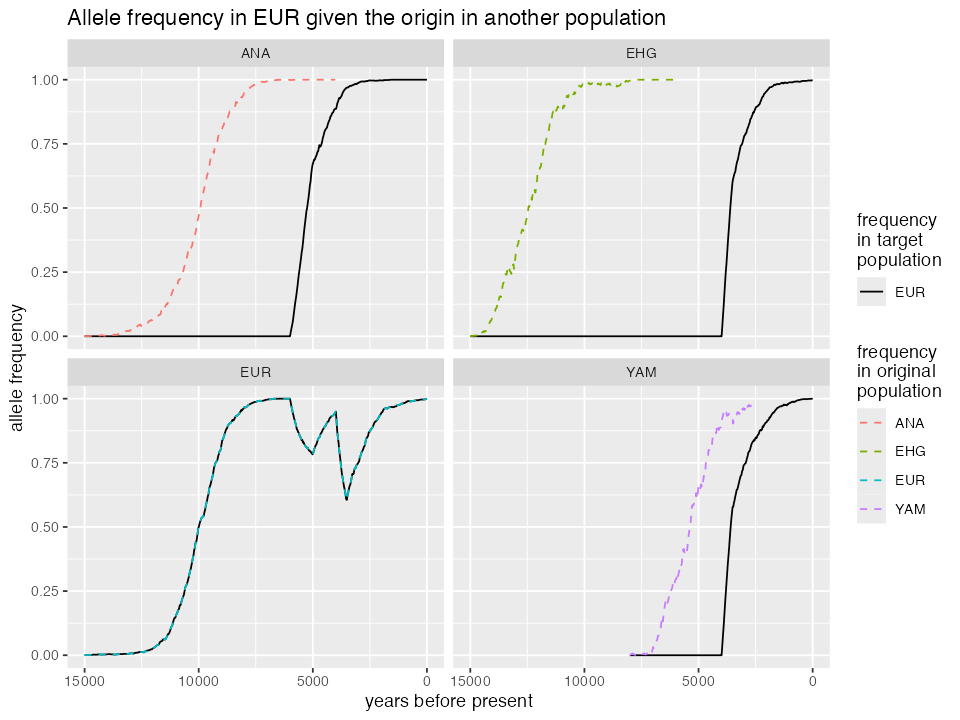
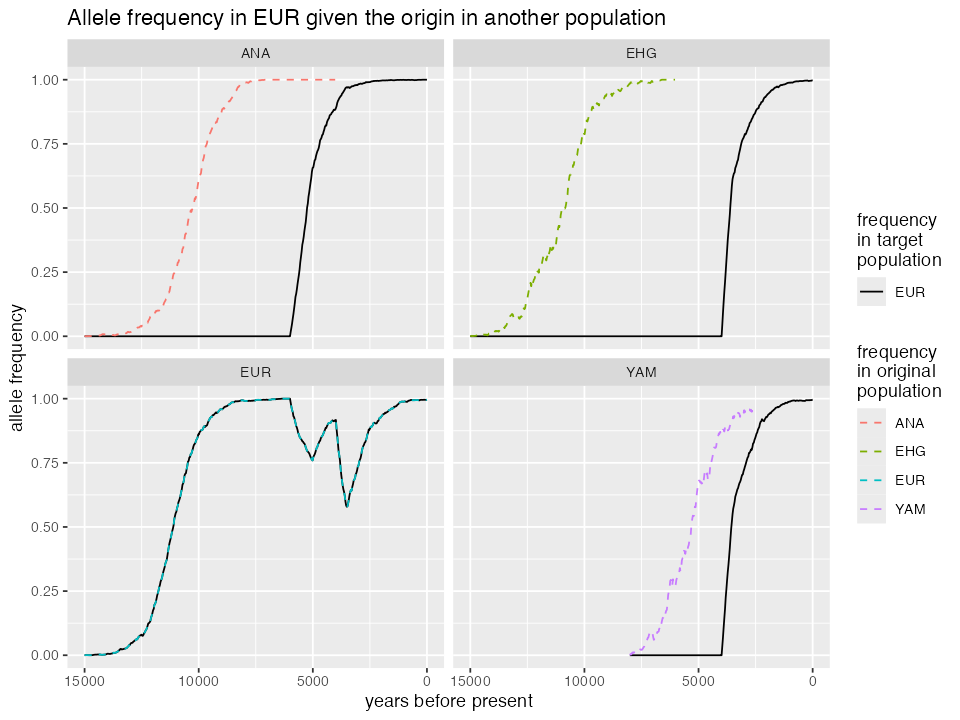
Render the cached version

diff --git a/docs/articles/vignette-11-extensions.html b/docs/articles/vignette-11-extensions.html
@@ -710,10 +710,10 @@ can do better using <em>slendr</em>’s support for substitution or
 simulation<a class="anchor" aria-label="anchor" href="#putting-it-all-together-parametrizing-a-customized-slendr-simulation"></a>
 </h3>
 <p>For easy parametrization of customized <em>slendr</em> / SLiM models,
-slendr provides a function <code><a href="../reference/substitute.html">substitute()</a></code>. Simply speaking,
-rather than having to hard code values of parameters in your extension
-SLiM snippet files, you can indicate that a parameter value should be
-substituted in the file using a simple syntax
+slendr provides a function <code><a href="../reference/substitute_values.html">substitute_values()</a></code>. Simply
+speaking, rather than having to hard code values of parameters in your
+extension SLiM snippet files, you can indicate that a parameter value
+should be substituted in the file using a simple syntax
 <code>{{parameter_name}}</code>.</p>
 <p>Take a look at a <a href="https://github.com/bodkan/slendr/blob/selection-extension/inst/extdata/extension_trajectory_params.txt" class="external-link">new,
 flexible version</a> of the snippet we used above and look for the
@@ -799,19 +799,20 @@ tick(onset_time):SIMULATION_END late() {
 <p>Substitute values of parameters in a customization SLiM extension
 script:</p>
 <div class="sourceCode" id="cb31"><pre class="downlit sourceCode r">
-<code class="sourceCode R"><span><span class="va">extension</span> <span class="op">&lt;-</span> <span class="fu"><a href="../reference/substitute.html">substitute</a></span><span class="op">(</span></span>
+<code class="sourceCode R"><span><span class="va">extension</span> <span class="op">&lt;-</span> <span class="fu"><a href="../reference/substitute_values.html">substitute_values</a></span><span class="op">(</span></span>
 <span>  <span class="va">extension_path</span>,</span>
 <span>  s <span class="op">=</span> <span class="fl">0.1</span>, onset_time <span class="op">=</span> <span class="fl">15000</span>,</span>
 <span>  origin_pop <span class="op">=</span> <span class="st">"EUR"</span>, target_pop <span class="op">=</span> <span class="st">"EUR"</span></span>
 <span><span class="op">)</span></span></code></pre></div>
 <p>Missing a parameter gives an error immediately:</p>
 <div class="sourceCode" id="cb32"><pre class="downlit sourceCode r">
-<code class="sourceCode R"><span><span class="va">extension</span> <span class="op">&lt;-</span> <span class="fu"><a href="../reference/substitute.html">substitute</a></span><span class="op">(</span></span>
+<code class="sourceCode R"><span><span class="va">extension</span> <span class="op">&lt;-</span> <span class="fu"><a href="../reference/substitute_values.html">substitute_values</a></span><span class="op">(</span></span>
 <span>  <span class="va">extension_path</span>,</span>
-<span>  <span class="co"># specification of `s` is missing!</span></span>
 <span>  onset_time <span class="op">=</span> <span class="fl">15000</span>,</span>
 <span>  origin_pop <span class="op">=</span> <span class="st">"EUR"</span>, target_pop <span class="op">=</span> <span class="st">"EUR"</span></span>
-<span><span class="op">)</span></span></code></pre></div>
+<span><span class="op">)</span></span>
+<span></span>
+<span><span class="co"># Error: The extension script contains the following unsubstituted patterns: {{s}}</span></span></code></pre></div>
 <p>Then plug the parametrized script into <code><a href="../reference/compile_model.html">compile_model()</a></code>
 just as we did above:</p>
 <div class="sourceCode" id="cb33"><pre class="downlit sourceCode r">
@@ -819,18 +820,20 @@ just as we did above:</p>
 <span>  populations <span class="op">=</span> <span class="fu"><a href="https://rdrr.io/r/base/list.html" class="external-link">list</a></span><span class="op">(</span><span class="va">afr</span>, <span class="va">ooa</span>, <span class="va">ehg</span>, <span class="va">eur</span>, <span class="va">ana</span>, <span class="va">yam</span><span class="op">)</span>,</span>
 <span>  gene_flow <span class="op">=</span> <span class="va">gf</span>, generation_time <span class="op">=</span> <span class="fl">30</span>,</span>
 <span>  extension <span class="op">=</span> <span class="va">extension</span></span>
-<span><span class="op">)</span></span>
-<span></span>
-<span><span class="fu"><a href="../reference/slim.html">slim</a></span><span class="op">(</span><span class="va">model</span>, sequence_length <span class="op">=</span> <span class="fl">1e6</span>, recombination_rate <span class="op">=</span> <span class="fl">1e-8</span>, output_dir <span class="op">=</span> <span class="st">"~/Desktop/trajectories"</span><span class="op">)</span></span></code></pre></div>
+<span><span class="op">)</span></span></code></pre></div>
+<div class="sourceCode" id="cb34"><pre class="downlit sourceCode r">
+<code class="sourceCode R"><span><span class="va">output_dir</span> <span class="op">&lt;-</span> <span class="fu"><a href="https://rdrr.io/r/base/tempfile.html" class="external-link">tempdir</a></span><span class="op">(</span><span class="op">)</span></span>
+<span><span class="fu"><a href="../reference/slim.html">slim</a></span><span class="op">(</span><span class="va">model</span>, sequence_length <span class="op">=</span> <span class="fl">1e6</span>, recombination_rate <span class="op">=</span> <span class="fl">0</span>, output_dir <span class="op">=</span> <span class="va">output_dir</span>,</span>
+<span>     ts <span class="op">=</span> <span class="cn">FALSE</span>, random_seed <span class="op">=</span> <span class="fl">42</span><span class="op">)</span></span></code></pre></div>
 <p>We can leverage the flexibility of this solution to run another
 version of this model, this time adding the mutation to a different
 population. In fact, let’s check what happens when the beneficial allele
 appears in EHG, ANA, and YAM populations. Note that this uses the same
 extension snippet, and just substitutes different values to the
 placeholder parameters:</p>
-<div class="sourceCode" id="cb34"><pre class="downlit sourceCode r">
+<div class="sourceCode" id="cb35"><pre class="downlit sourceCode r">
 <code class="sourceCode R"><span><span class="va">run_model</span> <span class="op">&lt;-</span> <span class="kw">function</span><span class="op">(</span><span class="va">origin_pop</span>, <span class="va">onset_time</span><span class="op">)</span> <span class="op">{</span></span>
-<span>  <span class="va">extension</span> <span class="op">&lt;-</span> <span class="fu"><a href="../reference/substitute.html">substitute</a></span><span class="op">(</span></span>
+<span>  <span class="va">extension</span> <span class="op">&lt;-</span> <span class="fu"><a href="../reference/substitute_values.html">substitute_values</a></span><span class="op">(</span></span>
 <span>    <span class="va">extension_path</span>,</span>
 <span>    s <span class="op">=</span> <span class="fl">0.1</span>, onset_time <span class="op">=</span> <span class="va">onset_time</span>,</span>
 <span>    origin_pop <span class="op">=</span> <span class="va">origin_pop</span>, target_pop <span class="op">=</span> <span class="st">"EUR"</span></span>
@@ -842,8 +845,8 @@ placeholder parameters:</p>
 <span>    extension <span class="op">=</span> <span class="va">extension</span></span>
 <span>  <span class="op">)</span></span>
 <span>  </span>
-<span>  <span class="fu"><a href="../reference/slim.html">slim</a></span><span class="op">(</span><span class="va">model</span>, sequence_length <span class="op">=</span> <span class="fl">1e6</span>, recombination_rate <span class="op">=</span> <span class="fl">1e-8</span>,</span>
-<span>       output_dir <span class="op">=</span> <span class="st">"~/Desktop/trajectories"</span>, ts <span class="op">=</span> <span class="cn">FALSE</span><span class="op">)</span></span>
+<span>  <span class="fu"><a href="../reference/slim.html">slim</a></span><span class="op">(</span><span class="va">model</span>, sequence_length <span class="op">=</span> <span class="fl">1e6</span>, recombination_rate <span class="op">=</span> <span class="fl">0</span>,</span>
+<span>       output_dir <span class="op">=</span> <span class="va">output_dir</span>, ts <span class="op">=</span> <span class="cn">FALSE</span>, random_seed <span class="op">=</span> <span class="fl">42</span><span class="op">)</span></span>
 <span><span class="op">}</span></span>
 <span></span>
 <span><span class="fu">run_model</span><span class="op">(</span>origin_pop <span class="op">=</span> <span class="st">"EUR"</span>, onset_time <span class="op">=</span> <span class="fl">15000</span><span class="op">)</span></span>
@@ -862,9 +865,9 @@ depending on when a particular gene flow happened. Still, because it’s
 been under such a strong selection in all of them that it reached
 fixation even prior to a gene flow and because the gene flow happened in
 such a strong proportion, it reaches fixation much faster.</p>
-<div class="sourceCode" id="cb35"><pre class="downlit sourceCode r">
+<div class="sourceCode" id="cb36"><pre class="downlit sourceCode r">
 <code class="sourceCode R"><span><span class="va">load_traj</span> <span class="op">&lt;-</span> <span class="kw">function</span><span class="op">(</span><span class="va">origin_pop</span><span class="op">)</span> <span class="op">{</span></span>
-<span>  <span class="va">df</span> <span class="op">&lt;-</span> <span class="fu"><a href="https://rdrr.io/r/utils/read.table.html" class="external-link">read.table</a></span><span class="op">(</span><span class="fu"><a href="https://rdrr.io/r/base/paste.html" class="external-link">paste0</a></span><span class="op">(</span><span class="st">"~/Desktop/trajectories/traj_EUR_"</span>, <span class="va">origin_pop</span>, <span class="st">".tsv"</span><span class="op">)</span>, header <span class="op">=</span> <span class="cn">TRUE</span><span class="op">)</span></span>
+<span>  <span class="va">df</span> <span class="op">&lt;-</span> <span class="fu"><a href="https://rdrr.io/r/utils/read.table.html" class="external-link">read.table</a></span><span class="op">(</span><span class="fu"><a href="https://rdrr.io/r/base/file.path.html" class="external-link">file.path</a></span><span class="op">(</span><span class="va">output_dir</span>, <span class="fu"><a href="https://rdrr.io/r/base/paste.html" class="external-link">paste0</a></span><span class="op">(</span><span class="st">"traj_EUR_"</span>, <span class="va">origin_pop</span>, <span class="st">".tsv"</span><span class="op">)</span><span class="op">)</span>, header <span class="op">=</span> <span class="cn">TRUE</span><span class="op">)</span></span>
 <span>  <span class="va">df</span><span class="op">$</span><span class="va">origin</span> <span class="op">&lt;-</span> <span class="va">origin_pop</span></span>
 <span>  <span class="va">df</span><span class="op">$</span><span class="va">target</span> <span class="op">&lt;-</span> <span class="st">"EUR"</span></span>
 <span>  <span class="va">df</span></span>
@@ -897,7 +900,7 @@ specify the SLiM extension code directly as an R string inside our R
 script, instead of having to plug it in from an external file like we
 did in the previous example. Including the SLiM code directly in this
 way makes it a little easier to iterate during development.</p>
-<div class="sourceCode" id="cb37"><pre class="downlit sourceCode r">
+<div class="sourceCode" id="cb38"><pre class="downlit sourceCode r">
 <code class="sourceCode R"><span><span class="co"># extension "template" provided as a single string (this contains the same code</span></span>
 <span><span class="co"># as the script used just above, except specified directly in R)</span></span>
 <span><span class="va">extension_template</span> <span class="op">&lt;-</span> <span class="st">r"(</span></span>
@@ -982,9 +985,9 @@ way makes it a little easier to iterate during development.</p>
 will work in exactly the same way as in the example just above (the only
 thing that we changed in the code below is providing the SLiM extension
 string directly instead of providing a path to a file):</p>
-<div class="sourceCode" id="cb38"><pre class="downlit sourceCode r">
+<div class="sourceCode" id="cb39"><pre class="downlit sourceCode r">
 <code class="sourceCode R"><span><span class="va">run_model</span> <span class="op">&lt;-</span> <span class="kw">function</span><span class="op">(</span><span class="va">origin_pop</span>, <span class="va">onset_time</span><span class="op">)</span> <span class="op">{</span></span>
-<span>  <span class="va">extension</span> <span class="op">&lt;-</span> <span class="fu"><a href="../reference/substitute.html">substitute</a></span><span class="op">(</span></span>
+<span>  <span class="va">extension</span> <span class="op">&lt;-</span> <span class="fu"><a href="../reference/substitute_values.html">substitute_values</a></span><span class="op">(</span></span>
 <span>    <span class="va">extension_template</span>, <span class="co"># &lt;--- template SLiM code string directly (not as a file!)</span></span>
 <span>    s <span class="op">=</span> <span class="fl">0.1</span>, onset_time <span class="op">=</span> <span class="va">onset_time</span>,</span>
 <span>    origin_pop <span class="op">=</span> <span class="va">origin_pop</span>, target_pop <span class="op">=</span> <span class="st">"EUR"</span></span>
@@ -996,8 +999,8 @@ string directly instead of providing a path to a file):</p>
 <span>    extension <span class="op">=</span> <span class="va">extension</span></span>
 <span>  <span class="op">)</span></span>
 <span>  </span>
-<span>  <span class="fu"><a href="../reference/slim.html">slim</a></span><span class="op">(</span><span class="va">model</span>, sequence_length <span class="op">=</span> <span class="fl">1e6</span>, recombination_rate <span class="op">=</span> <span class="fl">1e-8</span>,</span>
-<span>       output_dir <span class="op">=</span> <span class="st">"~/Desktop/trajectories"</span>, ts <span class="op">=</span> <span class="cn">FALSE</span><span class="op">)</span></span>
+<span>  <span class="fu"><a href="../reference/slim.html">slim</a></span><span class="op">(</span><span class="va">model</span>, sequence_length <span class="op">=</span> <span class="fl">1e6</span>, recombination_rate <span class="op">=</span> <span class="fl">0</span>,</span>
+<span>       output_dir <span class="op">=</span> <span class="va">output_dir</span>, ts <span class="op">=</span> <span class="cn">FALSE</span>, random_seed <span class="op">=</span> <span class="fl">42</span><span class="op">)</span></span>
 <span><span class="op">}</span></span>
 <span></span>
 <span><span class="fu">run_model</span><span class="op">(</span><span class="st">"EUR"</span>, onset_time <span class="op">=</span> <span class="fl">15000</span><span class="op">)</span></span>
@@ -1005,11 +1008,11 @@ string directly instead of providing a path to a file):</p>
 <span><span class="fu"><a href="https://rdrr.io/r/utils/head.html" class="external-link">head</a></span><span class="op">(</span><span class="fu">load_traj</span><span class="op">(</span><span class="st">"EUR"</span><span class="op">)</span><span class="op">)</span></span></code></pre></div>
 <pre><code><span><span class="co">#&gt;   tick  time freq_origin freq_target origin target</span></span>
 <span><span class="co">#&gt; 1 2501 15000       1e-04       1e-04    EUR    EUR</span></span>
-<span><span class="co">#&gt; 2 2502 14970       2e-04       2e-04    EUR    EUR</span></span>
+<span><span class="co">#&gt; 2 2502 14970       3e-04       3e-04    EUR    EUR</span></span>
 <span><span class="co">#&gt; 3 2503 14940       4e-04       4e-04    EUR    EUR</span></span>
 <span><span class="co">#&gt; 4 2504 14910       5e-04       5e-04    EUR    EUR</span></span>
-<span><span class="co">#&gt; 5 2505 14880       8e-04       8e-04    EUR    EUR</span></span>
-<span><span class="co">#&gt; 6 2506 14850       8e-04       8e-04    EUR    EUR</span></span></code></pre>
+<span><span class="co">#&gt; 5 2505 14880       4e-04       4e-04    EUR    EUR</span></span>
+<span><span class="co">#&gt; 6 2506 14850       4e-04       4e-04    EUR    EUR</span></span></code></pre>
 <div class="section level4">
 <h4 id="customizing-genomic-architecture-selective-sweep-simulations">Customizing genomic architecture (selective sweep simulations)<a class="anchor" aria-label="anchor" href="#customizing-genomic-architecture-selective-sweep-simulations"></a>
 </h4>
@@ -1041,7 +1044,7 @@ introgression:</p>
 <!-- # 3% Neanderthal introgression into Europeans between 55-50 ky ago -->
 <!-- gf <- gene_flow(from = nea, to = eur, rate = 0.05, start = 55000, end = 54500) -->
 <!-- ``` -->
-<div class="sourceCode" id="cb40"><pre class="downlit sourceCode r">
+<div class="sourceCode" id="cb41"><pre class="downlit sourceCode r">
 <code class="sourceCode R"><span><span class="co"># create the ancestor of everyone and a chimpanzee outgroup</span></span>
 <span><span class="co"># (we set both N = 1 to reduce the computational time for this model)</span></span>
 <span><span class="va">chimp</span> <span class="op">&lt;-</span> <span class="fu"><a href="../reference/population.html">population</a></span><span class="op">(</span><span class="st">"CH"</span>, time <span class="op">=</span> <span class="fl">6.5e6</span>, N <span class="op">=</span> <span class="fl">1000</span><span class="op">)</span></span>
@@ -1064,10 +1067,10 @@ introgression:</p>
 <p><img src="vignette-11-extensions_files/figure-html/introgression_model-1.png" width="360"></p>
 <p>Now we put together SLiM extension code to set up a non-neutral
 <em>slendr</em> simulation:</p>
-<div class="sourceCode" id="cb41"><pre class="downlit sourceCode r">
+<div class="sourceCode" id="cb42"><pre class="downlit sourceCode r">
 <code class="sourceCode R"><span><span class="va">extension</span> <span class="op">&lt;-</span> <span class="st">r"(</span></span>
 <span><span class="st">initialize() {</span></span>
-<span><span class="st">  // model parameters to be substitute()'d from R below</span></span>
+<span><span class="st">  // model parameters to be substitute_values()'d from R below</span></span>
 <span><span class="st">  defineConstant("gene_length", {{gene_length}});</span></span>
 <span><span class="st">  defineConstant("n_genes", {{n_genes}});</span></span>
 <span><span class="st">  defineConstant("n_markers", {{n_markers}});</span></span>
@@ -1154,7 +1157,7 @@ introgression:</p>
 <span><span class="st">  writeFile(output_file, df.serialize(format = "tsv"));</span></span>
 <span><span class="st">}</span></span>
 <span><span class="st">)"</span> <span class="op"><a href="../reference/pipe.html">%&gt;%</a></span></span>
-<span>  <span class="fu"><a href="../reference/substitute.html">substitute</a></span><span class="op">(</span></span>
+<span>  <span class="fu"><a href="../reference/substitute_values.html">substitute_values</a></span><span class="op">(</span></span>
 <span>    introgression_time <span class="op">=</span> <span class="fl">55000</span>, s <span class="op">=</span> <span class="op">-</span><span class="fl">0.001</span>,</span>
 <span>    gene_length <span class="op">=</span> <span class="fl">5e6</span>, n_genes <span class="op">=</span> <span class="fl">200</span>, n_markers <span class="op">=</span> <span class="fl">100</span>,</span>
 <span>    output_file <span class="op">=</span> <span class="st">"output_frequencies.tsv"</span></span>
@@ -1164,7 +1167,7 @@ introgression:</p>
 genomic architecture, including deleterious mutations):</p>
 <p>We will also record 10 Neanderthals and 100 Africans and Europeans
 each in a tree sequence:</p>
-<div class="sourceCode" id="cb42"><pre class="downlit sourceCode r">
+<div class="sourceCode" id="cb43"><pre class="downlit sourceCode r">
 <code class="sourceCode R"><span><span class="va">nea_samples</span> <span class="op">&lt;-</span> <span class="fu"><a href="../reference/schedule_sampling.html">schedule_sampling</a></span><span class="op">(</span><span class="va">model</span>, times <span class="op">=</span> <span class="fl">50000</span>, <span class="fu"><a href="https://rdrr.io/r/base/list.html" class="external-link">list</a></span><span class="op">(</span><span class="va">nea</span>, <span class="fl">1</span><span class="op">)</span><span class="op">)</span></span>
 <span><span class="va">modern_samples</span> <span class="op">&lt;-</span> <span class="fu"><a href="../reference/schedule_sampling.html">schedule_sampling</a></span><span class="op">(</span><span class="va">model</span>, times <span class="op">=</span> <span class="fl">0</span>, <span class="fu"><a href="https://rdrr.io/r/base/list.html" class="external-link">list</a></span><span class="op">(</span><span class="va">eur</span>, <span class="fl">100</span><span class="op">)</span><span class="op">)</span></span>
 <span></span>
@@ -1176,8 +1179,9 @@ workflow. However, note that we were able to skip
 arguments! This is because our non-neutral extension snippet already
 customizes though, so there’s no reason for us to instruct
 <code><a href="../reference/slim.html">slim()</a></code> on that front in any way:</p>
-<div class="sourceCode" id="cb43"><pre class="downlit sourceCode r">
-<code class="sourceCode R"><span><span class="fu"><a href="../reference/slim.html">slim</a></span><span class="op">(</span><span class="va">model</span>, recombination_rate <span class="op">=</span> <span class="fl">1e-8</span>, samples <span class="op">=</span> <span class="va">samples</span>, output_dir <span class="op">=</span> <span class="st">"~/Desktop/introgression"</span><span class="op">)</span></span></code></pre></div>
+<div class="sourceCode" id="cb44"><pre class="downlit sourceCode r">
+<code class="sourceCode R"><span><span class="va">output_dir</span> <span class="op">&lt;-</span> <span class="fu"><a href="https://rdrr.io/r/base/tempfile.html" class="external-link">tempdir</a></span><span class="op">(</span><span class="op">)</span></span>
+<span><span class="fu"><a href="../reference/slim.html">slim</a></span><span class="op">(</span><span class="va">model</span>, recombination_rate <span class="op">=</span> <span class="fl">1e-8</span>, samples <span class="op">=</span> <span class="va">samples</span>, output_dir <span class="op">=</span> <span class="va">output_dir</span><span class="op">)</span></span></code></pre></div>
 <p>It’s been suggested that Neanderthals had a significantly lower <span class="math inline">\(N_e\)</span> compared to anatomically modern
 humans (AMH), which might have decreased efficacy of negative selection
 against deleterious variants compared to AMH. Consequently, following
@@ -1190,8 +1194,8 @@ in the amount of surviving Neanderthal DNA as a function of distance
 from a locus under selection. Because our customized SLiM snippet saved
 the allele frequency of each Neanderthal marker in Europeans, we can
 just load this data and directly visualize it:</p>
-<div class="sourceCode" id="cb44"><pre class="downlit sourceCode r">
-<code class="sourceCode R"><span><span class="va">freqs</span> <span class="op">&lt;-</span> <span class="fu"><a href="https://readr.tidyverse.org/reference/read_delim.html" class="external-link">read_tsv</a></span><span class="op">(</span><span class="st">"~/Desktop/introgression/output_frequencies.tsv"</span><span class="op">)</span> <span class="op"><a href="../reference/pipe.html">%&gt;%</a></span> <span class="fu"><a href="https://dplyr.tidyverse.org/reference/mutate.html" class="external-link">mutate</a></span><span class="op">(</span>pos <span class="op">=</span> <span class="va">pos</span> <span class="op"><a href="https://rdrr.io/r/base/Arithmetic.html" class="external-link">%%</a></span> <span class="fl">5e6</span><span class="op">)</span></span></code></pre></div>
+<div class="sourceCode" id="cb45"><pre class="downlit sourceCode r">
+<code class="sourceCode R"><span><span class="va">freqs</span> <span class="op">&lt;-</span> <span class="fu"><a href="https://readr.tidyverse.org/reference/read_delim.html" class="external-link">read_tsv</a></span><span class="op">(</span><span class="st">"~/Projects/introgression_data/output_frequencies.tsv"</span><span class="op">)</span> <span class="op"><a href="../reference/pipe.html">%&gt;%</a></span> <span class="fu"><a href="https://dplyr.tidyverse.org/reference/mutate.html" class="external-link">mutate</a></span><span class="op">(</span>pos <span class="op">=</span> <span class="va">pos</span> <span class="op"><a href="https://rdrr.io/r/base/Arithmetic.html" class="external-link">%%</a></span> <span class="fl">5e6</span><span class="op">)</span></span></code></pre></div>
 <pre><code><span><span class="co">#&gt; <span style="font-weight: bold;">Rows: </span><span style="color: #0000BB;">40000000</span> <span style="font-weight: bold;">Columns: </span><span style="color: #0000BB;">3</span></span></span>
 <span><span class="co">#&gt; <span style="color: #00BBBB;">──</span> <span style="font-weight: bold;">Column specification</span> <span style="color: #00BBBB;">────────────────────────────────────────────────────────</span></span></span>
 <span><span class="co">#&gt; <span style="font-weight: bold;">Delimiter:</span> "\t"</span></span>
@@ -1199,7 +1203,7 @@ just load this data and directly visualize it:</p>
 <span><span class="co">#&gt; </span></span>
 <span><span class="co">#&gt; <span style="color: #00BBBB;">ℹ</span> Use `spec()` to retrieve the full column specification for this data.</span></span>
 <span><span class="co">#&gt; <span style="color: #00BBBB;">ℹ</span> Specify the column types or set `show_col_types = FALSE` to quiet this message.</span></span></code></pre>
-<div class="sourceCode" id="cb46"><pre class="downlit sourceCode r">
+<div class="sourceCode" id="cb47"><pre class="downlit sourceCode r">
 <code class="sourceCode R"><span><span class="fu"><a href="https://dplyr.tidyverse.org/reference/group_by.html" class="external-link">group_by</a></span><span class="op">(</span><span class="va">freqs</span>, <span class="va">pos</span><span class="op">)</span> <span class="op"><a href="../reference/pipe.html">%&gt;%</a></span></span>
 <span><span class="fu"><a href="https://dplyr.tidyverse.org/reference/summarise.html" class="external-link">summarise</a></span><span class="op">(</span>freq <span class="op">=</span> <span class="fl">100</span> <span class="op">*</span> <span class="fu"><a href="https://rdrr.io/r/base/mean.html" class="external-link">mean</a></span><span class="op">(</span><span class="va">freq</span><span class="op">)</span><span class="op">)</span> <span class="op"><a href="../reference/pipe.html">%&gt;%</a></span></span>
 <span><span class="fu"><a href="https://ggplot2.tidyverse.org/reference/ggplot.html" class="external-link">ggplot</a></span><span class="op">(</span><span class="op">)</span> <span class="op">+</span></span>
@@ -1221,13 +1225,13 @@ frequencies during the SLiM run (saved in
 <code>output_frequencies.tsv</code>), we could use the simulated tree
 sequence to quickly calculate the genetic divergence between Europeans
 and a Neanderthal in windows along the simulated genome.</p>
-<div class="sourceCode" id="cb47"><pre class="downlit sourceCode r">
+<div class="sourceCode" id="cb48"><pre class="downlit sourceCode r">
 <code class="sourceCode R"><span><span class="va">n_genes</span> <span class="op">&lt;-</span> <span class="fl">200</span></span>
 <span><span class="va">gene_length</span> <span class="op">&lt;-</span> <span class="fl">5e6</span></span>
 <span><span class="va">window_length</span> <span class="op">&lt;-</span> <span class="fl">100e3</span></span></code></pre></div>
-<div class="sourceCode" id="cb48"><pre class="downlit sourceCode r">
+<div class="sourceCode" id="cb49"><pre class="downlit sourceCode r">
 <code class="sourceCode R"><span><span class="co"># load a tree sequence and extract the names of recorded individuals</span></span>
-<span><span class="va">ts</span> <span class="op">&lt;-</span> <span class="fu"><a href="../reference/ts_load.html">ts_load</a></span><span class="op">(</span>file <span class="op">=</span> <span class="st">"~/Desktop/introgression/output.trees"</span>, <span class="va">model</span><span class="op">)</span></span>
+<span><span class="va">ts</span> <span class="op">&lt;-</span> <span class="fu"><a href="../reference/ts_load.html">ts_load</a></span><span class="op">(</span>file <span class="op">=</span> <span class="st">"~/Projects/introgression_data/output.trees"</span>, <span class="va">model</span><span class="op">)</span></span>
 <span><span class="va">samples</span> <span class="op">&lt;-</span> <span class="fu"><a href="../reference/ts_names.html">ts_names</a></span><span class="op">(</span><span class="va">ts</span>, split <span class="op">=</span> <span class="st">"pop"</span><span class="op">)</span></span>
 <span></span>
 <span><span class="va">samples</span></span></code></pre></div>
@@ -1250,19 +1254,19 @@ and a Neanderthal in windows along the simulated genome.</p>
 <span><span class="co">#&gt; </span></span>
 <span><span class="co">#&gt; $NEA</span></span>
 <span><span class="co">#&gt; [1] "NEA_1"</span></span></code></pre>
-<div class="sourceCode" id="cb50"><pre class="downlit sourceCode r">
+<div class="sourceCode" id="cb51"><pre class="downlit sourceCode r">
 <code class="sourceCode R"><span><span class="co"># compute coordinates of sliding windows along the genome</span></span>
 <span><span class="va">windows</span> <span class="op">&lt;-</span> <span class="fu"><a href="https://rdrr.io/r/base/seq.html" class="external-link">seq</a></span><span class="op">(</span>from <span class="op">=</span> <span class="fl">0</span>, to <span class="op">=</span> <span class="va">n_genes</span> <span class="op">*</span> <span class="va">gene_length</span> <span class="op">-</span> <span class="fl">1</span>, by <span class="op">=</span> <span class="va">window_length</span><span class="op">)</span></span>
 <span></span>
 <span><span class="fu"><a href="https://rdrr.io/r/utils/head.html" class="external-link">head</a></span><span class="op">(</span><span class="va">windows</span><span class="op">)</span></span></code></pre></div>
 <pre><code><span><span class="co">#&gt; [1] 0e+00 1e+05 2e+05 3e+05 4e+05 5e+05</span></span></code></pre>
-<div class="sourceCode" id="cb52"><pre class="downlit sourceCode r">
+<div class="sourceCode" id="cb53"><pre class="downlit sourceCode r">
 <code class="sourceCode R"><span><span class="fu"><a href="https://rdrr.io/r/utils/head.html" class="external-link">tail</a></span><span class="op">(</span><span class="va">windows</span><span class="op">)</span></span></code></pre></div>
 <pre><code><span><span class="co">#&gt; [1] 999400000 999500000 999600000 999700000 999800000 999900000</span></span></code></pre>
-<div class="sourceCode" id="cb54"><pre class="downlit sourceCode r">
+<div class="sourceCode" id="cb55"><pre class="downlit sourceCode r">
 <code class="sourceCode R"><span><span class="co"># compute divergence from the tree sequence in each window separately</span></span>
 <span><span class="va">divergence</span> <span class="op">&lt;-</span> <span class="fu"><a href="../reference/ts_divergence.html">ts_divergence</a></span><span class="op">(</span><span class="va">ts</span>, <span class="va">samples</span>, windows <span class="op">=</span> <span class="va">windows</span>, mode <span class="op">=</span> <span class="st">"branch"</span><span class="op">)</span><span class="op">$</span><span class="va">divergence</span><span class="op">[[</span><span class="fl">1</span><span class="op">]</span><span class="op">]</span></span></code></pre></div>
-<div class="sourceCode" id="cb55"><pre class="downlit sourceCode r">
+<div class="sourceCode" id="cb56"><pre class="downlit sourceCode r">
 <code class="sourceCode R"><span><span class="co"># compute average divergence at each position in a gene, and a 95% C.I.</span></span>
 <span><span class="va">div_df</span> <span class="op">&lt;-</span> <span class="fu"><a href="https://tibble.tidyverse.org/reference/tibble.html" class="external-link">tibble</a></span><span class="op">(</span></span>
 <span>  pop <span class="op">=</span> <span class="st">"eur"</span>,</span>
@@ -1277,7 +1281,7 @@ and a Neanderthal in windows along the simulated genome.</p>
 <span>  <span class="op">)</span> </span></code></pre></div>
 <pre><code><span><span class="co">#&gt; `summarise()` has grouped output by 'pop'. You can override using the `.groups`</span></span>
 <span><span class="co">#&gt; argument.</span></span></code></pre>
-<div class="sourceCode" id="cb57"><pre class="downlit sourceCode r">
+<div class="sourceCode" id="cb58"><pre class="downlit sourceCode r">
 <code class="sourceCode R"><span><span class="fu"><a href="https://ggplot2.tidyverse.org/reference/ggplot.html" class="external-link">ggplot</a></span><span class="op">(</span><span class="va">div_df</span><span class="op">)</span> <span class="op">+</span></span>
 <span>  <span class="fu"><a href="https://ggplot2.tidyverse.org/reference/geom_ribbon.html" class="external-link">geom_ribbon</a></span><span class="op">(</span><span class="fu"><a href="https://ggplot2.tidyverse.org/reference/aes.html" class="external-link">aes</a></span><span class="op">(</span><span class="va">pos</span>, ymin <span class="op">=</span> <span class="va">ci_low</span>, ymax <span class="op">=</span> <span class="va">ci_up</span><span class="op">)</span>, fill <span class="op">=</span> <span class="st">"grey70"</span><span class="op">)</span> <span class="op">+</span></span>
 <span>  <span class="fu"><a href="https://ggplot2.tidyverse.org/reference/geom_path.html" class="external-link">geom_line</a></span><span class="op">(</span><span class="fu"><a href="https://ggplot2.tidyverse.org/reference/aes.html" class="external-link">aes</a></span><span class="op">(</span><span class="va">pos</span>, <span class="va">mean</span><span class="op">)</span><span class="op">)</span> <span class="op">+</span></span>
